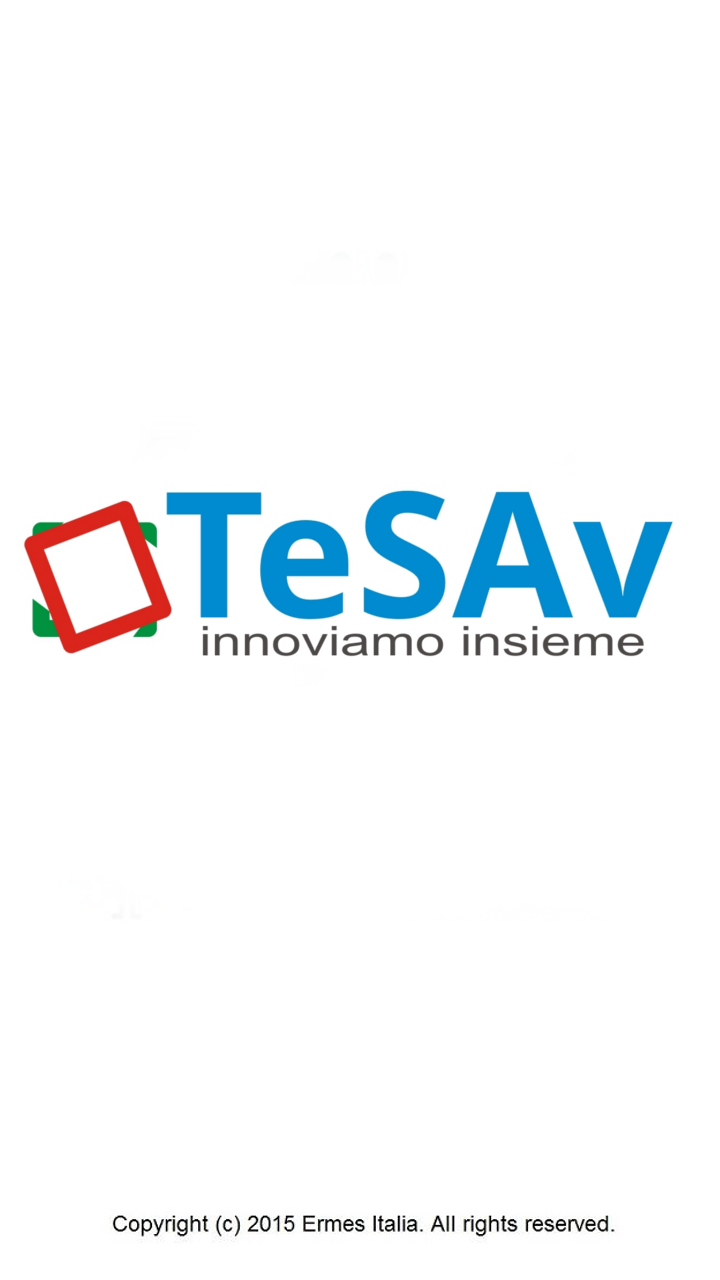
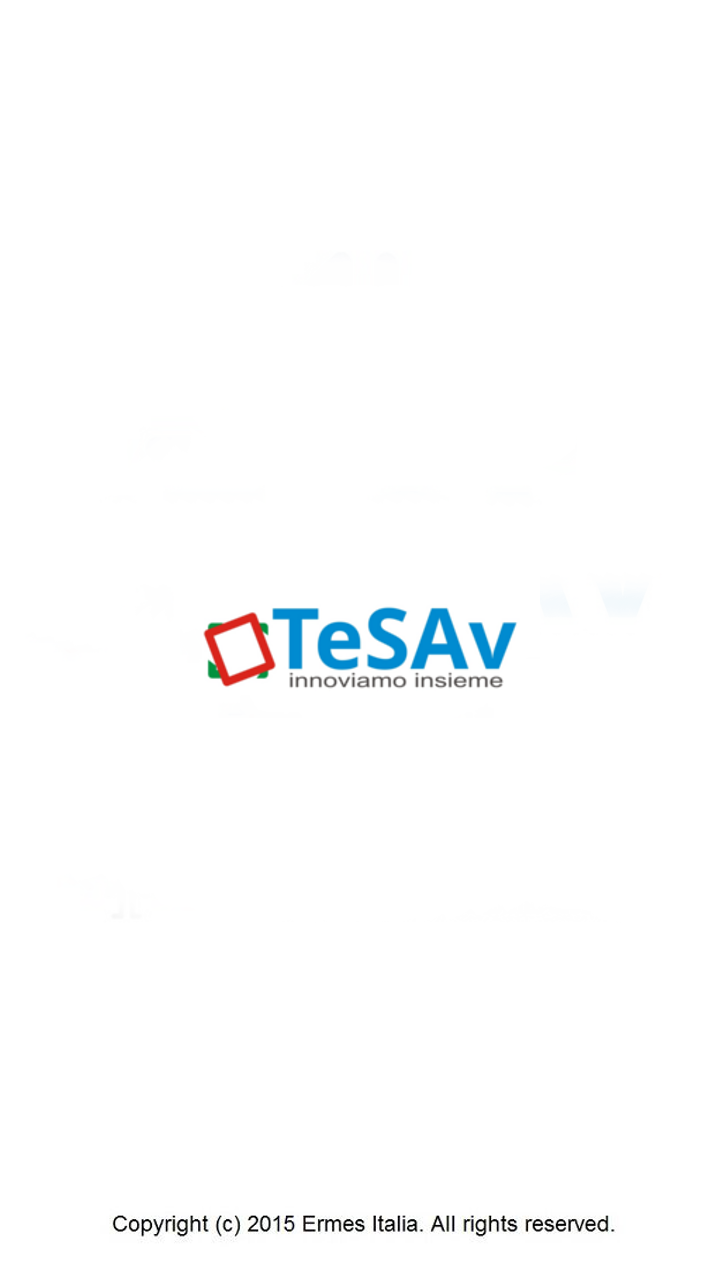
1357
1357

Changed region(s): [[0.2139, 0.375, 0.9472, 0.5625], [0.0306, 0.375, 0.2444, 0.5312]]

diff --git a/www/index.html b/www/index.html
@@ -45,95 +45,6 @@
 						
 						</script>
 						
-				<script type="text/javascript">
-				<!--
-				
-				var keyStr = "ABCDEFGHIJKLMNOP" +
-				"QRSTUVWXYZabcdef" +
-				"ghijklmnopqrstuv" +
-				"wxyz0123456789+/" +
-				"=";
-				
-				function encode64(input) {
-					input = escape(input);
-					var output = "";
-					var chr1, chr2, chr3 = "";
-					var enc1, enc2, enc3, enc4 = "";
-					var i = 0;
-					
-					do {
-						chr1 = input.charCodeAt(i++);
-						chr2 = input.charCodeAt(i++);
-						chr3 = input.charCodeAt(i++);
-						
-						enc1 = chr1 >> 2;
-						enc2 = ((chr1 & 3) << 4) | (chr2 >> 4);
-						enc3 = ((chr2 & 15) << 2) | (chr3 >> 6);
-						enc4 = chr3 & 63;
-						
-						if (isNaN(chr2)) {
-							enc3 = enc4 = 64;
-						} else if (isNaN(chr3)) {
-							enc4 = 64;
-						}
-						
-						output = output +
-						keyStr.charAt(enc1) +
-						keyStr.charAt(enc2) +
-						keyStr.charAt(enc3) +
-						keyStr.charAt(enc4);
-						chr1 = chr2 = chr3 = "";
-						enc1 = enc2 = enc3 = enc4 = "";
-					} while (i < input.length);
-					
-					return output;
-				}
-			
-			function decode64(input) {
-				var output = "";
-				var chr1, chr2, chr3 = "";
-				var enc1, enc2, enc3, enc4 = "";
-				var i = 0;
-				
-				// remove all characters that are not A-Z, a-z, 0-9, +, /, or =
-				var base64test = /[^A-Za-z0-9\+\/\=]/g;
-				if (base64test.exec(input)) {
-					alert("There were invalid base64 characters in the input text.\n" +
-						  "Valid base64 characters are A-Z, a-z, 0-9, '+', '/',and '='\n" +
-						  "Expect errors in decoding.");
-				}
-				input = input.replace(/[^A-Za-z0-9\+\/\=]/g, "");
-				
-				do {
-					enc1 = keyStr.indexOf(input.charAt(i++));
-					enc2 = keyStr.indexOf(input.charAt(i++));
-					enc3 = keyStr.indexOf(input.charAt(i++));
-					enc4 = keyStr.indexOf(input.charAt(i++));
-					
-					chr1 = (enc1 << 2) | (enc2 >> 4);
-					chr2 = ((enc2 & 15) << 4) | (enc3 >> 2);
-					chr3 = ((enc3 & 3) << 6) | enc4;
-					
-					output = output + String.fromCharCode(chr1);
-					
-					if (enc3 != 64) {
-						output = output + String.fromCharCode(chr2);
-					}
-					if (enc4 != 64) {
-						output = output + String.fromCharCode(chr3);
-					}
-					
-					chr1 = chr2 = chr3 = "";
-					enc1 = enc2 = enc3 = enc4 = "";
-					
-				} while (i < input.length);
-				
-				return unescape(output);
-			}
-			
-				//--></script>
-			
-						
 						<style type="text/css">
 							* {
 								-webkit-box-sizing: border-box;
@@ -1597,7 +1508,7 @@
 		</div>
 		
 		<div id="pippo" style="display: none;">
-			<table border="0" align="center" width="100%" height="270px" class="visione">
+			<table border="0" align="center" width="100%" height="50%" class="visione">
 				<tr height="32px">
 					<td width="100%" align="right">
 						<a href="javascript:chiudi()"><img src="img/exit.png" width="32px"></a>
@@ -1605,7 +1516,7 @@
 				</tr>
 				<tr>
 					<td width="100%" align="center" valign="center">
-						<img src="img/bannerino.jpg" width="160px" class="bannerino">
+						<img src="img/bannerino.jpg" width="50%" class="bannerino">
 							</td>
 				</tr>
 				<tr>
@@ -1620,7 +1531,7 @@
 				</tr>
 				<tr>
 					<td width="100%" align="center" valign="center">
-						<font size="2" color="#fff">Questa App è stata sviluppata dalla piattaforma IBA. ogni App viene personalizzata in funzione delle caratteristiche che il cliente richiede.</font>
+						<font id="banner1" size="2" color="#fff">Questa App è stata sviluppata dalla piattaforma IBA. ogni App viene personalizzata in funzione delle caratteristiche che il cliente richiede.</font>
 					</td>
 				</tr>
 				<tr>
@@ -1645,85 +1556,16 @@
 			</table>
 		</div>
 		
-		<div id="pippoPAD" style="display: none;">
-			<table border="0" align="center" width="100%" height="540px" class="visioneIPAD">
-				<tr height="64px">
-					<td width="100%" align="right">
-						<a href="javascript:chiudi()"><img src="img/exit.png" width="64px"></a>
-					</td>
-				</tr>
-				<tr>
-					<td width="100%" align="center" valign="center">
-						<img src="img/bannerino.jpg" width="320px" class="bannerino">
-							</td>
-				</tr>
-				<tr>
-					<td width="100%" align="center" valign="center">
-						<font size="4" color="#fff"><b>Powerd by Ermes Italia s.rl.</b></font>
-					</td>
-				</tr>
-				<tr>
-					<td width="100%" align="center" valign="center">
-						
-					</td>
-				</tr>
-				<tr>
-					<td width="100%" align="center" valign="center">
-						<font size="3" color="#fff">Questa App è stata sviluppata dalla piattaforma IBA. ogni App viene personalizzata in funzione delle caratteristiche che il cliente richiede.</font>
-					</td>
-				</tr>
-				<tr>
-					<td width="100%" align="center" valign="center">
-					</td>
-				</tr>
-				<tr>
-					<td width="100%" align="center" valign="center">
-						<a href="javascript:aprimail0()"><font color="#fff" size="4"><b>info@tesav.it</b></font></a>
-					</td>
-				</tr>
-				<tr>
-					<td width="100%" align="center" valign="center">
-						<a href="tel:+390621116843" class="visione"><font color="#fff" size="4"><b>+39 06 21116843</b></font></a>
-					</td>
-				</tr>
-				<tr height="40px">
-					<td width="100%" align="center" valign="center">
-					&nbsp;
-					</td>
-				</tr>
-			</table>
-		</div>
-		
 		
 		<div id="pluto0" align="center" valign="top" style="display: none;" >
 				
 		</div>
 			
 			<div id="pippo0" style="display: none;">
-				<table border="0" align="center" width="100%" height="260px">
+				<table border="0" align="center" width="100%" height="50%">
 					<tr height="32px">
 						<td width="100%" align="left">
 							<a href="javascript:chiudi0()"><img src="img/exit.png" width="32px"></a>
-						</td>
-					</tr>
-					<tr>
-						<td width="100%" align="center" valign="center">
-							<font color="#fff" size="3">My Social Network</font>
-						</td>
-					</tr>
-					<tr>
-						<td width="100%" align="center" valign="center">
-							<a href="javascript:apritw()"><img src="img/social4.png" width="100px"></a>&nbsp;&nbsp;&nbsp;&nbsp;&nbsp;<a href="javascript:aprili()"><img src="img/social3.png" width="100px"></a>
-						</td>
-					</tr>
-				</table>
-			</div>
-
-			<div id="pippo0IPAD" style="display: none;">
-				<table border="0" align="center" width="100%" height="520px">
-					<tr height="64px">
-						<td width="100%" align="left">
-							<a href="javascript:chiudi0()"><img src="img/exit.png" width="64px"></a>
 						</td>
 					</tr>
 					<tr>
@@ -1733,12 +1575,13 @@
 					</tr>
 					<tr>
 						<td width="100%" align="center" valign="center">
-							<a href="javascript:apritw()"><img src="img/social4.png" width="100px"></a>&nbsp;&nbsp;&nbsp;&nbsp;&nbsp;<a href="javascript:aprili()"><img src="img/social3.png" width="100px"></a>
+							<a href="javascript:apritw()"><img src="img/social4.png" width="33%"></a>&nbsp;&nbsp;&nbsp;&nbsp;&nbsp;<a href="javascript:aprili()"><img src="img/social3.png" width="33%"></a>
 						</td>
 					</tr>
 				</table>
 			</div>
-			
+
+	
 		<table id="zoccolo" width="100%" border="0" align="center" valign="center" class="div5" >
 			<tr>
 				<td algn="center" width="20%" align="center">
@@ -2071,30 +1914,10 @@
 			</div>
 			
 			<div id="pippo5" style="display: none;">
-				<table border="0" align="center" width="100%" height="260px">
+				<table border="0" align="center" width="100%" height="50%">
 					<tr height="32px">
 						<td width="100%" align="left">
 							<a href="javascript:chiudi5()"><img src="img/exit.png" width="32px"></a>
-						</td>
-					</tr>
-					<tr>
-						<td width="100%" align="center" valign="center">
-							<font color="#fff" size="3">Contatta tramite:</font>
-						</td>
-					</tr>
-					<tr>
-						<td width="100%" align="center" valign="center">
-							<a href="javascript:mandasms5()"><img src="img/sms.png" width="100px"></a>&nbsp;&nbsp;&nbsp;&nbsp;&nbsp;<a href="javascript:aprimail5()"><img src="img/email.png" width="100px"></a>
-						</td>
-					</tr>
-				</table>
-			</div>
-			
-			<div id="pippo5IPAD" style="display: none;">
-				<table border="0" align="center" width="100%" height="520px">
-					<tr height="64px">
-						<td width="100%" align="left">
-							<a href="javascript:chiudi5()"><img src="img/exit.png" width="64px"></a>
 						</td>
 					</tr>
 					<tr>
@@ -2104,13 +1927,13 @@
 					</tr>
 					<tr>
 						<td width="100%" align="center" valign="center">
-							<a href="javascript:mandasms5()"><img src="img/sms.png" width="100px"></a>&nbsp;&nbsp;&nbsp;&nbsp;&nbsp;<a href="javascript:aprimail5()"><img src="img/email.png" width="100px"></a>
+							<a href="javascript:mandasms5()"><img src="img/sms.png" width="33%"></a>&nbsp;&nbsp;&nbsp;&nbsp;&nbsp;<a href="javascript:aprimail5()"><img src="img/email.png" width="33%"></a>
 						</td>
 					</tr>
 				</table>
 			</div>
 			
-			
+		
 			<div class="spinner" id="spinner"></div>
 			<div id="wrapper5">
 				<div id="scroller">

diff --git a/www/js/index.js b/www/js/index.js
@@ -746,75 +746,29 @@ function regToken() {
 }
 
 function apri(){
-		var isMobileScreenWidth = (screen.width / window.devicePixelRatio)
-			
-		//IPAD CHANGE
-		if(isMobileScreenWidth < 768){
-			$("#pippo").show( "slow" );
-		}
-		else{
-			$("#pippoPAD").show( "slow" );
-		}
+	$("#pippo").show( "slow" );
 }
 
 function aprisms(){
-	var isMobileScreenWidth = (screen.width / window.devicePixelRatio)
-			
-	//IPAD CHANGE
-	if(isMobileScreenWidth < 768){
-		$("#pippo5").show("slow");
-	}
-	else{
-		$("#pippo5IPAD").show("slow");
-	}
+	$("#pippo5").show("slow");
 }
 
 function aprisms0(){
-	var isMobileScreenWidth = (screen.width / window.devicePixelRatio)
-			
-	//IPAD CHANGE
-	if(isMobileScreenWidth < 768){
-		$("#pippo0").show("slow");
-	}
-	else{
-		$("#pippo0IPAD").show("slow");
-	}
+	("#pippo0").show("slow");
 }
 
 function chiudi(){
-	var isMobileScreenWidth = (screen.width / window.devicePixelRatio)
-			
-	//IPAD CHANGE
-	if(isMobileScreenWidth < 768){
-		$("#pippo").hide( "slow" );
-	}
-	else{
-		$("#pippoIPAD").hide( "slow" );
-	}
+
+	$("#pippo").hide( "slow" );
+
 }
 
 function chiudi5(){
-	var isMobileScreenWidth = (screen.width / window.devicePixelRatio)
-			
-	//IPAD CHANGE
-	if(isMobileScreenWidth < 768){
-		$("#pippo5").hide("slow");
-	}
-	else{
-		$("#pippo5IPAD").hide("slow");
-	}
+	$("#pippo5").hide("slow");
 }
 
 function chiudi0(){
-	var isMobileScreenWidth = (screen.width / window.devicePixelRatio)
-			
-	//IPAD CHANGE
-	if(isMobileScreenWidth < 768){
-		$("#pippo0").hide("slow");
-	}
-	else{
-		$("#pippo0IPAD").hide("slow");
-	}
+	$("#pippo0").hide("slow");
 }
 
 function vedi () {
